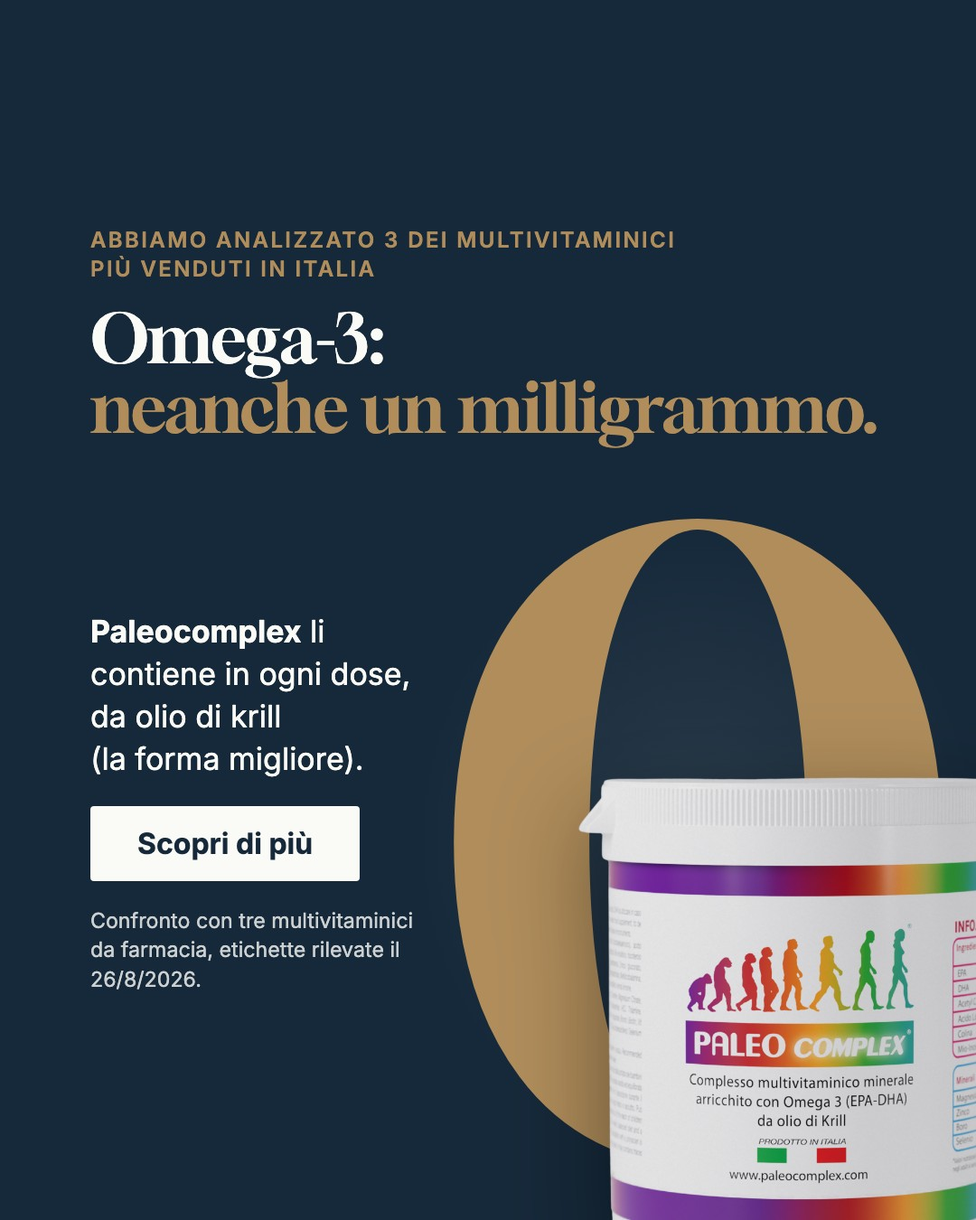
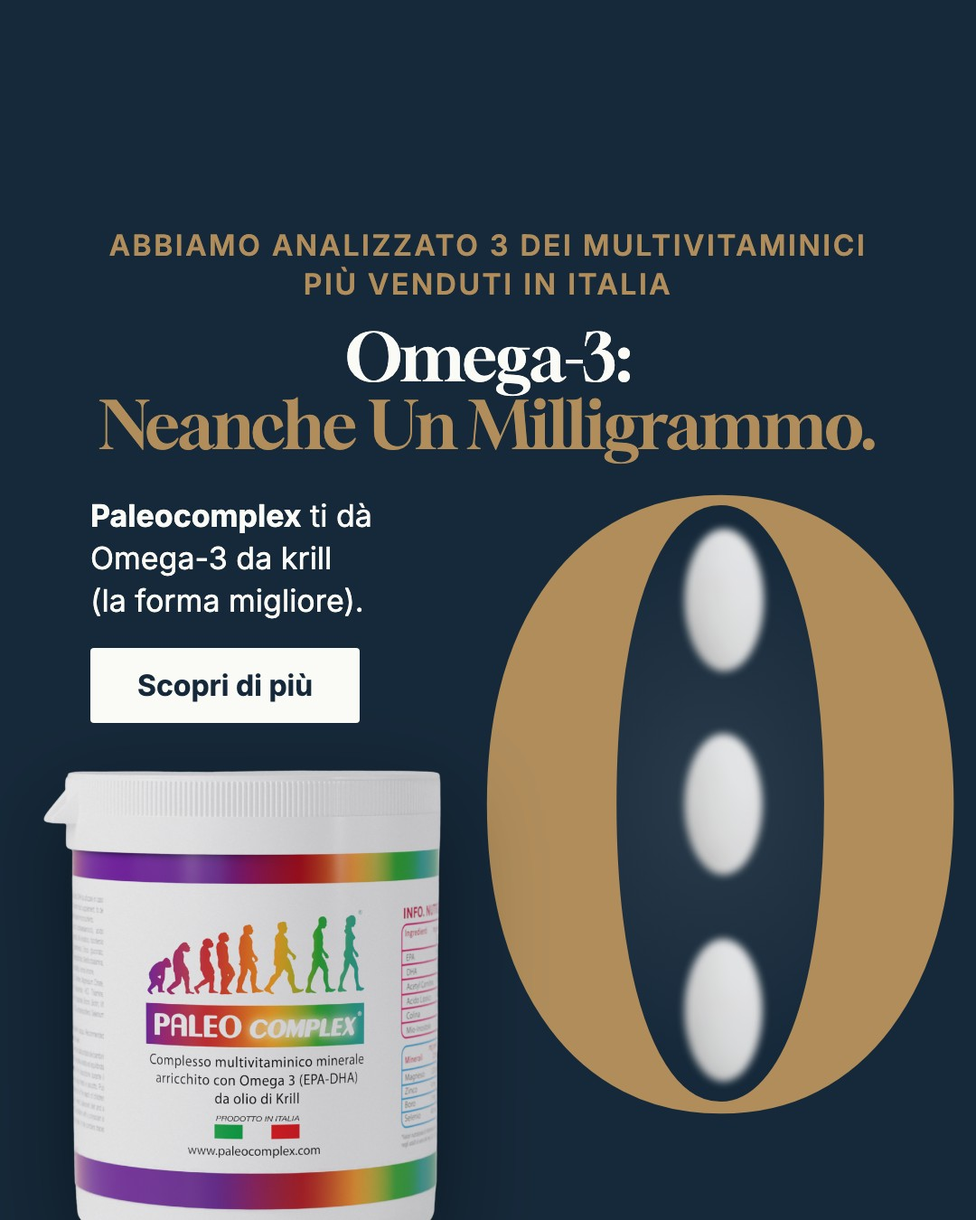
ads: batch #1007, secondo giro di ritocchi di Andrea (Title Case, micronote, CTA e loghi più grandi, serie con Multivitaminico 1/2/3)

diff --git a/ads/batch-1007.html b/ads/batch-1007.html
@@ -5,12 +5,13 @@
 <meta name="viewport" content="width=device-width,initial-scale=1">
 <meta name="robots" content="noindex,nofollow">
 <title>Batch #1007 · Test Multinutrienti · Launch kit</title>
-<!-- batch-1007.html v3 · 2026-09-22 · launch kit del batch #1007 Test Multinutrienti.
-     Testi, titoli, descrizione e parametri URL presi da copy/testi-meta.md v1.5; hook, nomi ad e formati da 01-matrice.md v1.6.
+<!-- batch-1007.html v4 · 2026-09-22 · launch kit del batch #1007 Test Multinutrienti.
+     Testi, titoli, descrizione e parametri URL presi da copy/testi-meta.md v1.5; hook, nomi ad e formati da 01-matrice.md v1.7.
      Changelog:
        v1 · prima pubblicazione (FASE 5 Ads OS)
        v2 · 14 creatività #220-#233 con la serie loro/noi (221, 230-233), testi e titoli v1.5, hook e nomi ad della matrice v1.6, JPG rigenerati dai PNG finali
-       v3 · anteprime più che raddoppiate (colonna da 230 a 540 px, pagina larga 1240 px), su richiesta di Andrea per leggerle bene -->
+       v3 · anteprime più che raddoppiate (colonna da 230 a 540 px, pagina larga 1240 px), su richiesta di Andrea per leggerle bene
+       v4 · secondo giro di ritocchi di Andrea del 22/9 (matrice v1.7): hook in Title Case nelle card e nella tabella, riferimenti alla matrice portati a v1.7, look della #223 aggiornato (compresse sfocate nello zero, barattolo accanto), JPG 220-233 rigenerati dai PNG finali -->
 <style>
 
   :root{--ground:#F4EFE4;--panel:#FBF8F1;--panel-2:#F0E9D9;--ink:#1B1712;--muted:#6E6455;--faint:#928871;--line:#E4DBC7;--accent:#8B6F47;--ok:#5E7A53;--warn:#A0622D;--shadow:0 1px 2px rgba(27,23,18,.06),0 8px 24px rgba(27,23,18,.06)}
@@ -238,22 +239,22 @@ Prima di scegliere, sulla pagina trovi il confronto con tre multivitaminici da f
     <div class="meta-row" style="margin-top:14px"><span class="flabel">Descrizione (una sola)</span><span class="val">Guarda il confronto, poi scegli</span><button class="cbtn sm" data-copy="Guarda il confronto, poi scegli">Copia</button></div>
   </div>
 
-  <h2>4 · La matrice (v1.6: nessuna riga tagliata, testo rivisto il 21/9, serie loro/noi)</h2>
+  <h2>4 · La matrice (v1.7: nessuna riga tagliata, testo rivisto il 21/9 e ritoccato il 22/9, serie loro/noi)</h2>
   <p class="sec-sub">Quattro famiglie di rivelazione: loro contro noi con un numero di prodotto (221 e la serie 230-233, 224, 227), il verdetto (220, 222), cosa manca (223, 226, 233), la forma (225). Il prezzo solo nel warm (228); la 229 porta l’offerta senza prezzo. Chi risponde: Elisir in 221, 226, 227, 231, 232 e 233; Essentiel in 224 e 230; Paleocomplex senza numero in 223; la categoria in 225; 220 e 222 lasciano la risposta alla landing. Due coppie sullo stesso fatto misurano se conviene rispondere nell’ad: 222 e 231 (Vitamina D), 223 e 233 (Omega-3). Le righe seguono la numerazione: la serie aggiunta il 21/9 sta in coda, dopo le due warm.</p>
   <div class="tablewrap">
     <table class="grid-t">
       <thead><tr><th>#</th><th>Awareness</th><th>Hook</th><th>Look</th><th>Formato</th></tr></thead>
       <tbody>
-        <tr><td class="cnum">#220</td><td><span class="aw">Solution</span></td><td class="hookcell">&quot;Scopri se il tuo multivitaminico è sottodimensionato.&quot;</td><td class="tcol">Solo tipografia, Newsreader su giallo pieno, risposta sulla landing</td><td class="tcol" style="white-space:nowrap">9:16 · 1080×1920</td></tr>
+        <tr><td class="cnum">#220</td><td><span class="aw">Solution</span></td><td class="hookcell">&quot;Scopri Se Il Tuo Multivitaminico È Sottodimensionato.&quot;</td><td class="tcol">Solo tipografia, Newsreader su giallo pieno, risposta sulla landing</td><td class="tcol" style="white-space:nowrap">9:16 · 1080×1920</td></tr>
         <tr><td class="cnum">#221</td><td><span class="aw">Solution</span></td><td class="hookcell">&quot;Magnesio. Loro: da 80 a 120 mg. Elisir: 450 mg.&quot;</td><td class="tcol">Strisce bianche su ardesia, Barlow Condensed, accento corallo, risponde Elisir</td><td class="tcol" style="white-space:nowrap">4:5 · 1080×1350</td></tr>
-        <tr><td class="cnum">#222</td><td><span class="aw">Solution</span></td><td class="hookcell">&quot;I multivitaminici comuni sono sottodosati.&quot;</td><td class="tcol">Foto img-08, 100% grigio in Rubik, risposta sulla landing</td><td class="tcol" style="white-space:nowrap">4:5 · 1080×1350</td></tr>
-        <tr><td class="cnum">#223</td><td><span class="aw">Solution</span></td><td class="hookcell">&quot;Omega-3: neanche un milligrammo.&quot;</td><td class="tcol">Zero bronzo su blu petrolio, Gloock, Paleocomplex davanti</td><td class="tcol" style="white-space:nowrap">4:5 · 1080×1350</td></tr>
-        <tr><td class="cnum">#224</td><td><span class="aw">Solution</span></td><td class="hookcell">&quot;Coenzima Q10: 4,5 mg contro 100.&quot;</td><td class="tcol">Cerchi in proporzione su prugna, Zilla Slab, risponde Essentiel</td><td class="tcol" style="white-space:nowrap">1:1 · 1080×1080</td></tr>
-        <tr><td class="cnum">#225</td><td><span class="aw">Solution</span></td><td class="hookcell">&quot;Gira la confezione del tuo multivitaminico e cerca queste due parole.&quot;</td><td class="tcol">Scena AI, mani e scatola da farmacia senza marchi, Public Sans</td><td class="tcol" style="white-space:nowrap">9:16 · 1080×1920</td></tr>
-        <tr><td class="cnum">#226</td><td><span class="aw">Solution</span></td><td class="hookcell">&quot;La compressa che dovrebbe coprire tutto non ha nessuno di questi sei.&quot;</td><td class="tcol">Griglia 3×2 su salvia, Schibsted Grotesk, risponde Elisir</td><td class="tcol" style="white-space:nowrap">1:1 · 1080×1080</td></tr>
-        <tr><td class="cnum">#227</td><td><span class="aw">Solution</span></td><td class="hookcell">&quot;Vitamina E, B6 e manganese ci sono. Ma col contagocce.&quot;</td><td class="tcol">Lista a barre su paper, Red Hat Display, risponde Elisir</td><td class="tcol" style="white-space:nowrap">1:1 · 1080×1080</td></tr>
-        <tr><td class="cnum">#228</td><td><span class="aw">Product</span></td><td class="hookcell">&quot;Sì, costa molte volte più di un multivitaminico da farmacia.&quot;</td><td class="tcol">Syne su oro pieno, barattolo di Elisir grande, 139 €</td><td class="tcol" style="white-space:nowrap">9:16 · 1080×1920</td></tr>
-        <tr><td class="cnum">#229</td><td><span class="aw">Most aware</span></td><td class="hookcell">&quot;Provalo con 35 € di regali.&quot;</td><td class="tcol">Foto img-06 con Elisir, card coupon PRIMOORDINE, nessun prezzo</td><td class="tcol" style="white-space:nowrap">4:5 · 1080×1350</td></tr>
+        <tr><td class="cnum">#222</td><td><span class="aw">Solution</span></td><td class="hookcell">&quot;I Multivitaminici Comuni Sono Sottodosati.&quot;</td><td class="tcol">Foto img-08, 100% grigio in Rubik, risposta sulla landing</td><td class="tcol" style="white-space:nowrap">4:5 · 1080×1350</td></tr>
+        <tr><td class="cnum">#223</td><td><span class="aw">Solution</span></td><td class="hookcell">&quot;Omega-3: Neanche Un Milligrammo.&quot;</td><td class="tcol">Zero bronzo su blu petrolio con le compresse sfocate dentro, Gloock, Paleocomplex accanto</td><td class="tcol" style="white-space:nowrap">4:5 · 1080×1350</td></tr>
+        <tr><td class="cnum">#224</td><td><span class="aw">Solution</span></td><td class="hookcell">&quot;Coenzima Q10: 4,5 mg Contro 100.&quot;</td><td class="tcol">Cerchi in proporzione su prugna, Zilla Slab, risponde Essentiel</td><td class="tcol" style="white-space:nowrap">1:1 · 1080×1080</td></tr>
+        <tr><td class="cnum">#225</td><td><span class="aw">Solution</span></td><td class="hookcell">&quot;Gira La Confezione Del Tuo Multivitaminico E Cerca Queste Due Parole.&quot;</td><td class="tcol">Scena AI, mani e scatola da farmacia senza marchi, Public Sans</td><td class="tcol" style="white-space:nowrap">9:16 · 1080×1920</td></tr>
+        <tr><td class="cnum">#226</td><td><span class="aw">Solution</span></td><td class="hookcell">&quot;La Compressa Che Dovrebbe Coprire Tutto Non Ha Nessuno Di Questi Sei.&quot;</td><td class="tcol">Griglia 3×2 su salvia, Schibsted Grotesk, risponde Elisir</td><td class="tcol" style="white-space:nowrap">1:1 · 1080×1080</td></tr>
+        <tr><td class="cnum">#227</td><td><span class="aw">Solution</span></td><td class="hookcell">&quot;Vitamina E, B6 E Manganese Ci Sono. Ma Col Contagocce.&quot;</td><td class="tcol">Lista a barre su paper, Red Hat Display, risponde Elisir</td><td class="tcol" style="white-space:nowrap">1:1 · 1080×1080</td></tr>
+        <tr><td class="cnum">#228</td><td><span class="aw">Product</span></td><td class="hookcell">&quot;Sì, Costa Molte Volte Più Di Un Multivitaminico Da Farmacia.&quot;</td><td class="tcol">Syne su oro pieno, barattolo di Elisir grande, 139 €</td><td class="tcol" style="white-space:nowrap">9:16 · 1080×1920</td></tr>
+        <tr><td class="cnum">#229</td><td><span class="aw">Most aware</span></td><td class="hookcell">&quot;Provalo Con 35 € Di Regali.&quot;</td><td class="tcol">Foto img-06 con Elisir, card coupon PRIMOORDINE, nessun prezzo</td><td class="tcol" style="white-space:nowrap">4:5 · 1080×1350</td></tr>
         <tr><td class="cnum">#230</td><td><span class="aw">Solution</span></td><td class="hookcell">&quot;Vitamina C. Loro: da 100 a 180 mg. Essentiel: 1.000 mg.&quot;</td><td class="tcol">Serie loro/noi come la 221, accento arancio, risponde Essentiel</td><td class="tcol" style="white-space:nowrap">4:5 · 1080×1350</td></tr>
         <tr><td class="cnum">#231</td><td><span class="aw">Solution</span></td><td class="hookcell">&quot;Vitamina D. Loro: dal 100 al 200%. Elisir: 1.000%.&quot;</td><td class="tcol">Serie loro/noi come la 221, accento giallo, risponde Elisir</td><td class="tcol" style="white-space:nowrap">4:5 · 1080×1350</td></tr>
         <tr><td class="cnum">#232</td><td><span class="aw">Solution</span></td><td class="hookcell">&quot;Vitamina B12. Loro: da 2,5 a 25 mcg. Elisir: 200 mcg.&quot;</td><td class="tcol">Serie loro/noi come la 221, accento viola, risponde Elisir</td><td class="tcol" style="white-space:nowrap">4:5 · 1080×1350</td></tr>
@@ -263,13 +264,13 @@ Prima di scegliere, sulla pagina trovi il confronto con tre multivitaminici da f
   </div>
 
   <h2>5 · Le creatività</h2>
-  <p class="sec-sub">14 definitive, renderizzate e verificate (matrice v1.6). Clic sull’immagine per la piena risoluzione, Scarica per il download. Su Meta: 5 testi + i 5 titoli + la descrizione unica + CTA Scopri di più + URL pulito e parametri. Rispetto alla prima versione del kit cambiano i nomi ad di #221, #222 e #227.</p>
+  <p class="sec-sub">14 definitive, renderizzate e verificate (matrice v1.7, ritocchi di Andrea del 22/9). Clic sull’immagine per la piena risoluzione, Scarica per il download. Su Meta: 5 testi + i 5 titoli + la descrizione unica + CTA Scopri di più + URL pulito e parametri. Rispetto alla prima versione del kit cambiano i nomi ad di #221, #222 e #227.</p>
   <div class="kits">
     <div class="kit">
       <div class="thumb"><a href="img/1007/220.jpg" target="_blank"><img src="img/1007/220.jpg" alt="#220" loading="lazy"></a><a class="dl" href="img/1007/220.jpg" download="220_multinutrienti_sottodimensionato_1080x1920.jpg">&#11015; Scarica immagine</a></div>
       <div class="fields">
         <div class="fhead"><span class="num">#220</span><span class="chip cold">Cold</span><span class="chip">Solution</span><span class="chip">Testo puro · sottodimensionato</span></div>
-        <div class="hookcell" style="min-width:0">&quot;Scopri se il tuo multivitaminico è sottodimensionato.&quot;</div>
+        <div class="hookcell" style="min-width:0">&quot;Scopri Se Il Tuo Multivitaminico È Sottodimensionato.&quot;</div>
         <div class="meta-row" style="margin-top:2px"><span class="flabel">Nome ad</span><code class="adname">220 | static | gen+50 sottodimensionato</code><button class="cbtn sm" data-copy="220 | static | gen+50 sottodimensionato">Copia</button></div>
         <div class="meta-row"><span class="flabel">Formato</span><span class="val">static · 9:16 · 1080×1920</span> <span class="val" style="color:var(--muted)">(nel Feed Meta ritaglia a 4:5: controlla l’anteprima in Ads Manager)</span></div>
         <div class="meta-row"><span class="flabel">Testo principale (tutti e 5)</span><button class="cbtn sm" data-src="tA">Copia A</button><button class="cbtn sm" data-src="tB">Copia B</button><button class="cbtn sm" data-src="tC">Copia C</button><button class="cbtn sm" data-src="tD">Copia D</button><button class="cbtn sm" data-src="tE">Copia E</button></div>
@@ -291,7 +292,7 @@ Prima di scegliere, sulla pagina trovi il confronto con tre multivitaminici da f
       <div class="thumb"><a href="img/1007/222.jpg" target="_blank"><img src="img/1007/222.jpg" alt="#222" loading="lazy"></a><a class="dl" href="img/1007/222.jpg" download="222_multinutrienti_vitamina-d_1080x1350.jpg">&#11015; Scarica immagine</a></div>
       <div class="fields">
         <div class="fhead"><span class="num">#222</span><span class="chip cold">Cold</span><span class="chip">Solution</span><span class="chip">Foto · sottodosati</span></div>
-        <div class="hookcell" style="min-width:0">&quot;I multivitaminici comuni sono sottodosati.&quot;</div>
+        <div class="hookcell" style="min-width:0">&quot;I Multivitaminici Comuni Sono Sottodosati.&quot;</div>
         <div class="meta-row" style="margin-top:2px"><span class="flabel">Nome ad</span><code class="adname">222 | static | w+50 vitamina d sottodosati</code><button class="cbtn sm" data-copy="222 | static | w+50 vitamina d sottodosati">Copia</button></div>
         <div class="meta-row"><span class="flabel">Formato</span><span class="val">static · 4:5 · 1080×1350</span></div>
         <div class="meta-row"><span class="flabel">Testo principale (tutti e 5)</span><button class="cbtn sm" data-src="tA">Copia A</button><button class="cbtn sm" data-src="tB">Copia B</button><button class="cbtn sm" data-src="tC">Copia C</button><button class="cbtn sm" data-src="tD">Copia D</button><button class="cbtn sm" data-src="tE">Copia E</button></div>
@@ -302,7 +303,7 @@ Prima di scegliere, sulla pagina trovi il confronto con tre multivitaminici da f
       <div class="thumb"><a href="img/1007/223.jpg" target="_blank"><img src="img/1007/223.jpg" alt="#223" loading="lazy"></a><a class="dl" href="img/1007/223.jpg" download="223_multinutrienti_omega3-zero_1080x1350.jpg">&#11015; Scarica immagine</a></div>
       <div class="fields">
         <div class="fhead"><span class="num">#223</span><span class="chip cold">Cold</span><span class="chip">Solution</span><span class="chip">Zero · Omega-3</span></div>
-        <div class="hookcell" style="min-width:0">&quot;Omega-3: neanche un milligrammo.&quot;</div>
+        <div class="hookcell" style="min-width:0">&quot;Omega-3: Neanche Un Milligrammo.&quot;</div>
         <div class="meta-row" style="margin-top:2px"><span class="flabel">Nome ad</span><code class="adname">223 | static | w+40 omega-3 zero</code><button class="cbtn sm" data-copy="223 | static | w+40 omega-3 zero">Copia</button></div>
         <div class="meta-row"><span class="flabel">Formato</span><span class="val">static · 4:5 · 1080×1350</span></div>
         <div class="meta-row"><span class="flabel">Testo principale (tutti e 5)</span><button class="cbtn sm" data-src="tA">Copia A</button><button class="cbtn sm" data-src="tB">Copia B</button><button class="cbtn sm" data-src="tC">Copia C</button><button class="cbtn sm" data-src="tD">Copia D</button><button class="cbtn sm" data-src="tE">Copia E</button></div>
@@ -313,7 +314,7 @@ Prima di scegliere, sulla pagina trovi il confronto con tre multivitaminici da f
       <div class="thumb"><a href="img/1007/224.jpg" target="_blank"><img src="img/1007/224.jpg" alt="#224" loading="lazy"></a><a class="dl" href="img/1007/224.jpg" download="224_multinutrienti_q10-cerchi_1080x1080.jpg">&#11015; Scarica immagine</a></div>
       <div class="fields">
         <div class="fhead"><span class="num">#224</span><span class="chip cold">Cold</span><span class="chip">Solution</span><span class="chip">Cerchi · coenzima Q10</span></div>
-        <div class="hookcell" style="min-width:0">&quot;Coenzima Q10: 4,5 mg contro 100.&quot;</div>
+        <div class="hookcell" style="min-width:0">&quot;Coenzima Q10: 4,5 mg Contro 100.&quot;</div>
         <div class="meta-row" style="margin-top:2px"><span class="flabel">Nome ad</span><code class="adname">224 | static | m+40 q10 cerchi</code><button class="cbtn sm" data-copy="224 | static | m+40 q10 cerchi">Copia</button></div>
         <div class="meta-row"><span class="flabel">Formato</span><span class="val">static · 1:1 · 1080×1080</span></div>
         <div class="meta-row"><span class="flabel">Testo principale (tutti e 5)</span><button class="cbtn sm" data-src="tA">Copia A</button><button class="cbtn sm" data-src="tB">Copia B</button><button class="cbtn sm" data-src="tC">Copia C</button><button class="cbtn sm" data-src="tD">Copia D</button><button class="cbtn sm" data-src="tE">Copia E</button></div>
@@ -324,7 +325,7 @@ Prima di scegliere, sulla pagina trovi il confronto con tre multivitaminici da f
       <div class="thumb"><a href="img/1007/225.jpg" target="_blank"><img src="img/1007/225.jpg" alt="#225" loading="lazy"></a><a class="dl" href="img/1007/225.jpg" download="225_multinutrienti_cerca-due-parole_1080x1920.jpg">&#11015; Scarica immagine</a></div>
       <div class="fields">
         <div class="fhead"><span class="num">#225</span><span class="chip cold">Cold</span><span class="chip">Solution</span><span class="chip">Campo di ricerca · acido folico</span></div>
-        <div class="hookcell" style="min-width:0">&quot;Gira la confezione del tuo multivitaminico e cerca queste due parole.&quot;</div>
+        <div class="hookcell" style="min-width:0">&quot;Gira La Confezione Del Tuo Multivitaminico E Cerca Queste Due Parole.&quot;</div>
         <div class="meta-row" style="margin-top:2px"><span class="flabel">Nome ad</span><code class="adname">225 | static | w+45 cerca due parole</code><button class="cbtn sm" data-copy="225 | static | w+45 cerca due parole">Copia</button></div>
         <div class="meta-row"><span class="flabel">Formato</span><span class="val">static · 9:16 · 1080×1920</span> <span class="val" style="color:var(--muted)">(nel Feed Meta ritaglia a 4:5: controlla l’anteprima in Ads Manager)</span></div>
         <div class="meta-row"><span class="flabel">Testo principale (tutti e 5)</span><button class="cbtn sm" data-src="tA">Copia A</button><button class="cbtn sm" data-src="tB">Copia B</button><button class="cbtn sm" data-src="tC">Copia C</button><button class="cbtn sm" data-src="tD">Copia D</button><button class="cbtn sm" data-src="tE">Copia E</button></div>
@@ -335,7 +336,7 @@ Prima di scegliere, sulla pagina trovi il confronto con tre multivitaminici da f
       <div class="thumb"><a href="img/1007/226.jpg" target="_blank"><img src="img/1007/226.jpg" alt="#226" loading="lazy"></a><a class="dl" href="img/1007/226.jpg" download="226_multinutrienti_sei-nomi_1080x1080.jpg">&#11015; Scarica immagine</a></div>
       <div class="fields">
         <div class="fhead"><span class="num">#226</span><span class="chip cold">Cold</span><span class="chip">Solution</span><span class="chip">Griglia · sei nomi assenti</span></div>
-        <div class="hookcell" style="min-width:0">&quot;La compressa che dovrebbe coprire tutto non ha nessuno di questi sei.&quot;</div>
+        <div class="hookcell" style="min-width:0">&quot;La Compressa Che Dovrebbe Coprire Tutto Non Ha Nessuno Di Questi Sei.&quot;</div>
         <div class="meta-row" style="margin-top:2px"><span class="flabel">Nome ad</span><code class="adname">226 | static | m+45 sei nomi assenti</code><button class="cbtn sm" data-copy="226 | static | m+45 sei nomi assenti">Copia</button></div>
         <div class="meta-row"><span class="flabel">Formato</span><span class="val">static · 1:1 · 1080×1080</span></div>
         <div class="meta-row"><span class="flabel">Testo principale (tutti e 5)</span><button class="cbtn sm" data-src="tA">Copia A</button><button class="cbtn sm" data-src="tB">Copia B</button><button class="cbtn sm" data-src="tC">Copia C</button><button class="cbtn sm" data-src="tD">Copia D</button><button class="cbtn sm" data-src="tE">Copia E</button></div>
@@ -346,7 +347,7 @@ Prima di scegliere, sulla pagina trovi il confronto con tre multivitaminici da f
       <div class="thumb"><a href="img/1007/227.jpg" target="_blank"><img src="img/1007/227.jpg" alt="#227" loading="lazy"></a><a class="dl" href="img/1007/227.jpg" download="227_multinutrienti_tre-sotto-meta_1080x1080.jpg">&#11015; Scarica immagine</a></div>
       <div class="fields">
         <div class="fhead"><span class="num">#227</span><span class="chip cold">Cold</span><span class="chip">Solution</span><span class="chip">Barre · col contagocce</span></div>
-        <div class="hookcell" style="min-width:0">&quot;Vitamina E, B6 e manganese ci sono. Ma col contagocce.&quot;</div>
+        <div class="hookcell" style="min-width:0">&quot;Vitamina E, B6 E Manganese Ci Sono. Ma Col Contagocce.&quot;</div>
         <div class="meta-row" style="margin-top:2px"><span class="flabel">Nome ad</span><code class="adname">227 | static | gen+45 tre col contagocce</code><button class="cbtn sm" data-copy="227 | static | gen+45 tre col contagocce">Copia</button></div>
         <div class="meta-row"><span class="flabel">Formato</span><span class="val">static · 1:1 · 1080×1080</span></div>
         <div class="meta-row"><span class="flabel">Testo principale (tutti e 5)</span><button class="cbtn sm" data-src="tA">Copia A</button><button class="cbtn sm" data-src="tB">Copia B</button><button class="cbtn sm" data-src="tC">Copia C</button><button class="cbtn sm" data-src="tD">Copia D</button><button class="cbtn sm" data-src="tE">Copia E</button></div>
@@ -357,7 +358,7 @@ Prima di scegliere, sulla pagina trovi il confronto con tre multivitaminici da f
       <div class="thumb"><a href="img/1007/228.jpg" target="_blank"><img src="img/1007/228.jpg" alt="#228" loading="lazy"></a><a class="dl" href="img/1007/228.jpg" download="228_multinutrienti_costa-molte-volte_1080x1920.jpg">&#11015; Scarica immagine</a></div>
       <div class="fields">
         <div class="fhead"><span class="num">#228</span><span class="chip warm">Warm</span><span class="chip">Product</span><span class="chip">Hero Elisir · iterazione di #206</span></div>
-        <div class="hookcell" style="min-width:0">&quot;Sì, costa molte volte più di un multivitaminico da farmacia.&quot;</div>
+        <div class="hookcell" style="min-width:0">&quot;Sì, Costa Molte Volte Più Di Un Multivitaminico Da Farmacia.&quot;</div>
         <div class="meta-row" style="margin-top:2px"><span class="flabel">Nome ad</span><code class="adname">228 | static | retarg m+45 si costa molte volte</code><button class="cbtn sm" data-copy="228 | static | retarg m+45 si costa molte volte">Copia</button></div>
         <div class="meta-row"><span class="flabel">Formato</span><span class="val">static · 9:16 · 1080×1920</span> <span class="val" style="color:var(--muted)">(nel Feed Meta ritaglia a 4:5: controlla l’anteprima in Ads Manager)</span></div>
         <div class="meta-row"><span class="flabel">Testo principale (tutti e 5)</span><button class="cbtn sm" data-src="tA">Copia A</button><button class="cbtn sm" data-src="tB">Copia B</button><button class="cbtn sm" data-src="tC">Copia C</button><button class="cbtn sm" data-src="tD">Copia D</button><button class="cbtn sm" data-src="tE">Copia E</button></div>
@@ -368,7 +369,7 @@ Prima di scegliere, sulla pagina trovi il confronto con tre multivitaminici da f
       <div class="thumb"><a href="img/1007/229.jpg" target="_blank"><img src="img/1007/229.jpg" alt="#229" loading="lazy"></a><a class="dl" href="img/1007/229.jpg" download="229_multinutrienti_primo-ordine_1080x1350.jpg">&#11015; Scarica immagine</a></div>
       <div class="fields">
         <div class="fhead"><span class="num">#229</span><span class="chip warm">Warm</span><span class="chip">Most aware</span><span class="chip">Coupon · regali del primo ordine</span></div>
-        <div class="hookcell" style="min-width:0">&quot;Provalo con 35 € di regali.&quot;</div>
+        <div class="hookcell" style="min-width:0">&quot;Provalo Con 35 € Di Regali.&quot;</div>
         <div class="meta-row" style="margin-top:2px"><span class="flabel">Nome ad</span><code class="adname">229 | static | retarg gen+45 primo ordine d3</code><button class="cbtn sm" data-copy="229 | static | retarg gen+45 primo ordine d3">Copia</button></div>
         <div class="meta-row"><span class="flabel">Formato</span><span class="val">static · 4:5 · 1080×1350</span></div>
         <div class="meta-row"><span class="flabel">Testo principale (tutti e 5)</span><button class="cbtn sm" data-src="tA">Copia A</button><button class="cbtn sm" data-src="tB">Copia B</button><button class="cbtn sm" data-src="tC">Copia C</button><button class="cbtn sm" data-src="tD">Copia D</button><button class="cbtn sm" data-src="tE">Copia E</button></div>
@@ -432,7 +433,7 @@ Prima di scegliere, sulla pagina trovi il confronto con tre multivitaminici da f
     <div class="step"><h3>7. Serie loro/noi</h3><p>#221 e #230-#233 hanno la stessa grafica per scelta, cambia solo il colore d’accento: Meta può trattarle come un gruppo. Si leggono sommando spesa e CAC delle cinque, poi guardando quale ingrediente prende spesa.</p></div>
   </div>
 
-  <footer>Ads OS · Paleocomplex · Batch #1007 Test Multinutrienti · matrice v1.6 e testi v1.5 del 21/09 · <a href="batch-1006.html">← #1006 Jeunesse V2</a> · <a href="batch-1005.html">#1005 Elisir</a> · <a href="batch-1004.html">#1004 Youth</a> · <a href="batch-1003.html">#1003 Paleocomplex</a></footer>
+  <footer>Ads OS · Paleocomplex · Batch #1007 Test Multinutrienti · matrice v1.7 del 22/09 e testi v1.5 del 21/09 · <a href="batch-1006.html">← #1006 Jeunesse V2</a> · <a href="batch-1005.html">#1005 Elisir</a> · <a href="batch-1004.html">#1004 Youth</a> · <a href="batch-1003.html">#1003 Paleocomplex</a></footer>
 </div>
 <script>
   function flash(btn,label){var o=btn.getAttribute('data-lbl')||btn.textContent;btn.setAttribute('data-lbl',o);btn.textContent=label;btn.classList.add('done');setTimeout(function(){btn.textContent=o;btn.classList.remove('done')},1300);}
